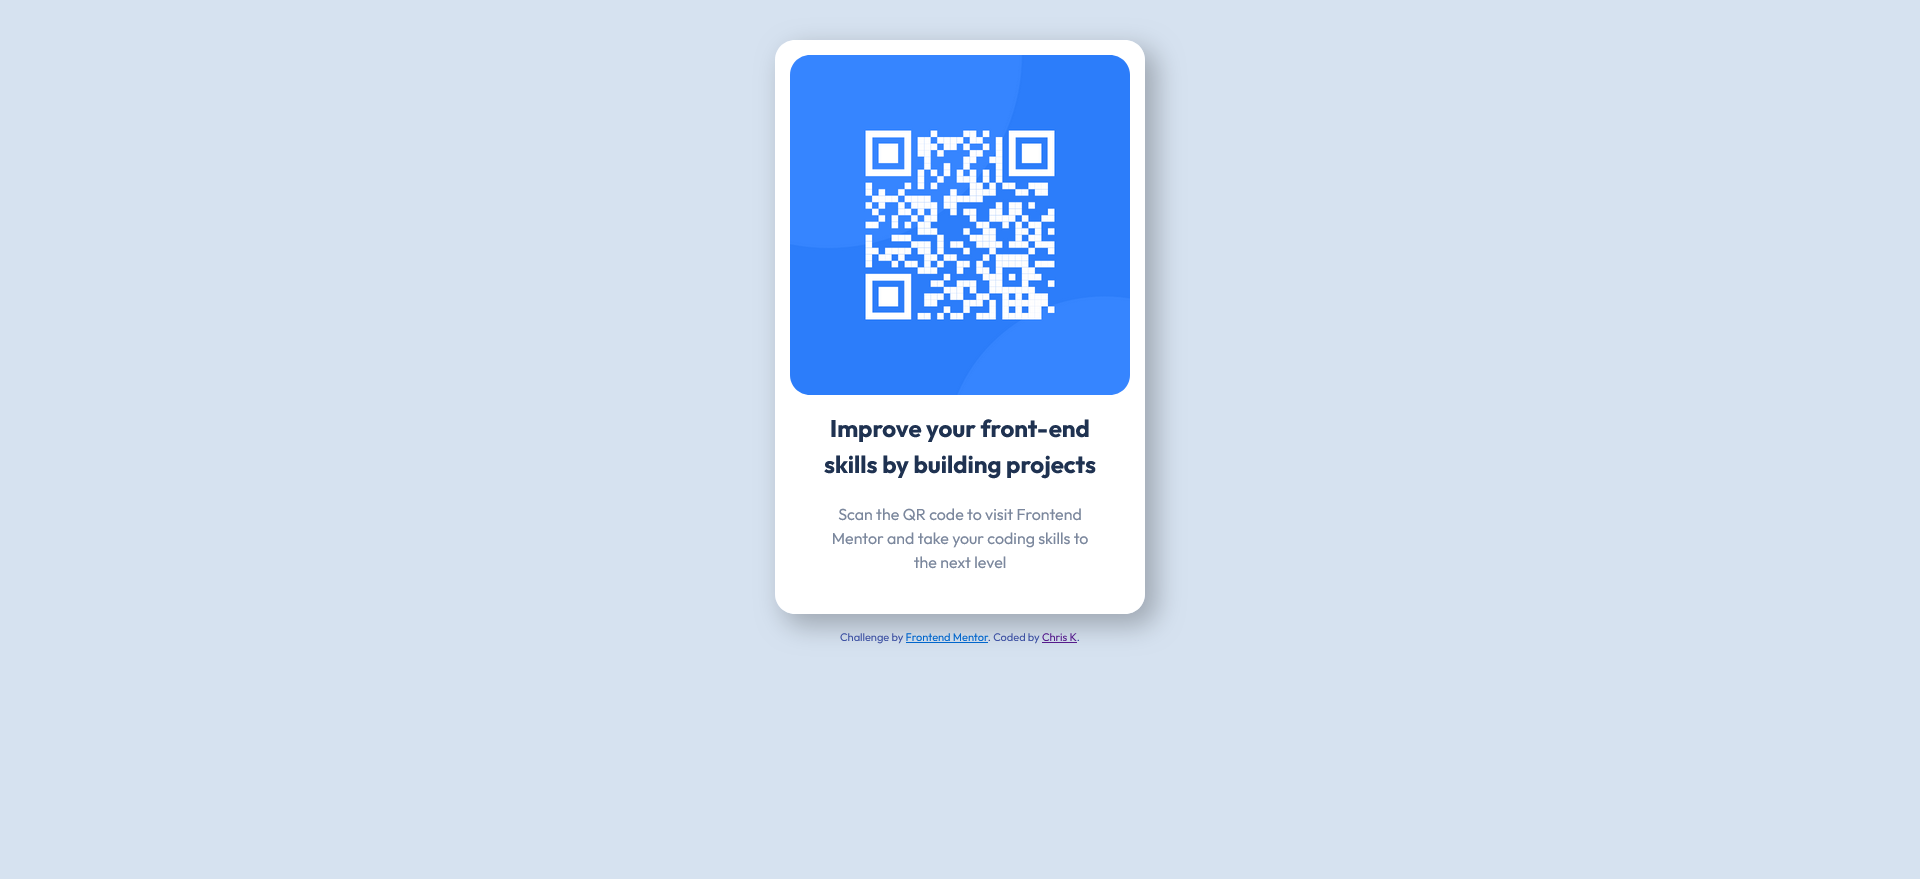
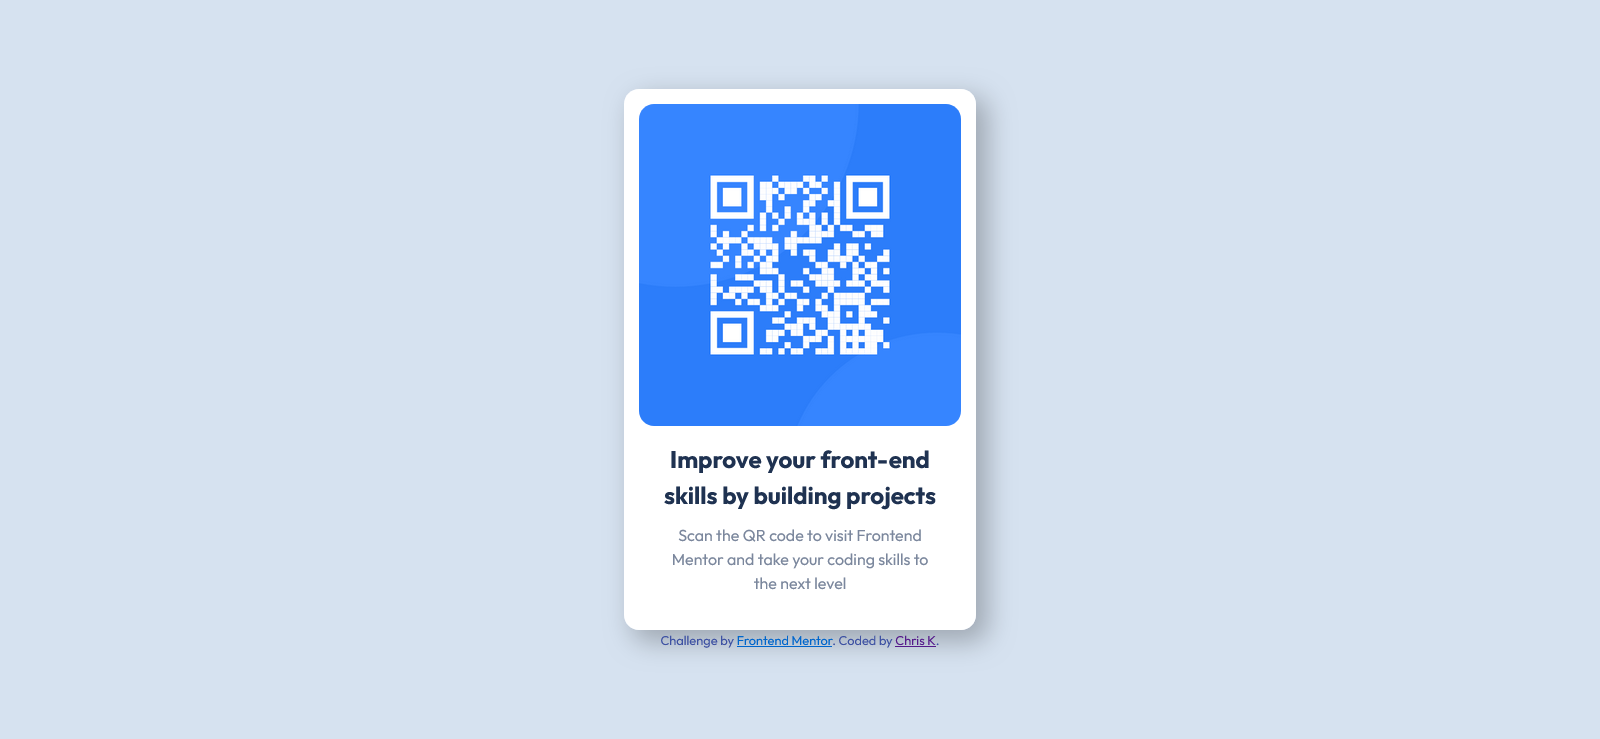
updated commit

Changed region(s): [[0.375, 0.0311, 0.625, 0.8714]]

diff --git a/style.css b/style.css
@@ -25,49 +25,49 @@ img {
 }
 
 body {
-  min-height: 50vh;
+  display: flex;
+  flex-direction: column;
+  height: 100vh;
   background: var(--clr-ltgrey);
 }
 
 .container {
-  display: flex;
-  margin: 40px;
-  align-items: center;
-  justify-content: center;
-}
-
-.card {
+  max-width: 22rem;
+  margin: auto auto 0 auto;
   background: var(--clr-white);
-  max-width: 370px;
-  border-radius: 20px;
+  padding: 15px;
+  border-radius: 15px;
   box-shadow: 10px 10px 25px 2px rgba(0, 0, 0, 0.25);
+  justify-content: center;
+  align-content: center;
 }
 
-.card-qrcode {
+.qrcode {
   display: block;
-  max-width: 340px;
-  margin: 15px;
-  border-radius: 20px;
+  border-radius: 15px;
 }
 
-.card-title {
+.title {
   font-size: 1.5rem;
-  text-align: center;
-  margin: 0 30px;
+  margin: 15px 5px 0;
   color: var(--clr-dkblue);
+  justify-content: center;
+  align-items: center;
+  text-align: center;
 }
     
-.card-desc {
+.desc {
   font-size: 1rem;
-  text-align: center;
-  margin: 0 30px 20px;
-  padding: 20px;
+  margin: 10px 30px 20px 30px;
   color: var(--clr-greyblue);
+  justify-content: center;
+  align-items: center;
+  text-align: center;
 }
 
 .attribution {
-  font-size: 11px;
-  margin-top: -25px;
+  font-size: 0.8rem;
+  margin: 0 0 auto 0;
   text-align: center;
   color: hsl(228, 45%, 44%);
 }

diff --git a/index.html b/index.html
@@ -10,13 +10,11 @@
 </head>
 <body>
   <div class="container">
-    <div class="card">
-      <img class="card-qrcode" src="img/image-qr-code.png" alt="QR Code for Frontend Mentor site">
-      <h2 class="card-title">Improve your front-end skills by building projects</h2>
-      <p class="card-desc">Scan the QR code to visit Frontend Mentor and take your coding skills to the next level</p>
-    </div>
+    <img class="qrcode" src="img/image-qr-code.png" alt="QR Code for Frontend Mentor site">
+    <h2 class="title">Improve your front-end skills by building projects</h2>
+    <p class="desc">Scan the QR code to visit Frontend Mentor and take your coding skills to the next level</p>
   </div>
-
+  
   <div class="attribution">
     Challenge by <a href="https://www.frontendmentor.io?ref=challenge" target="_blank">Frontend Mentor</a>. 
     Coded by <a href="#">Chris K</a>.
